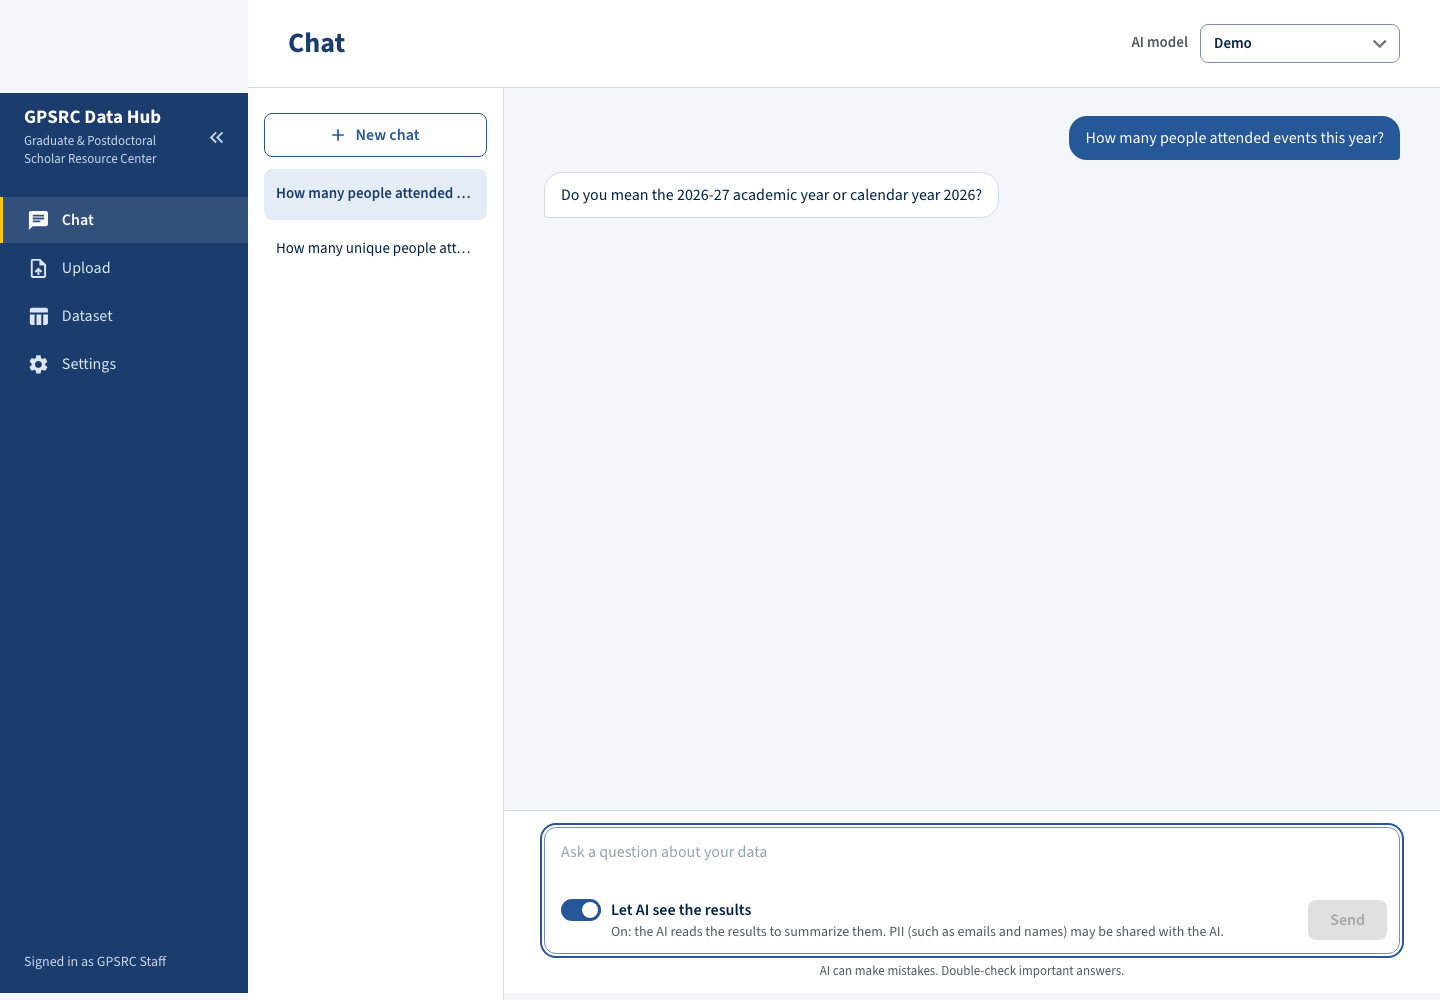
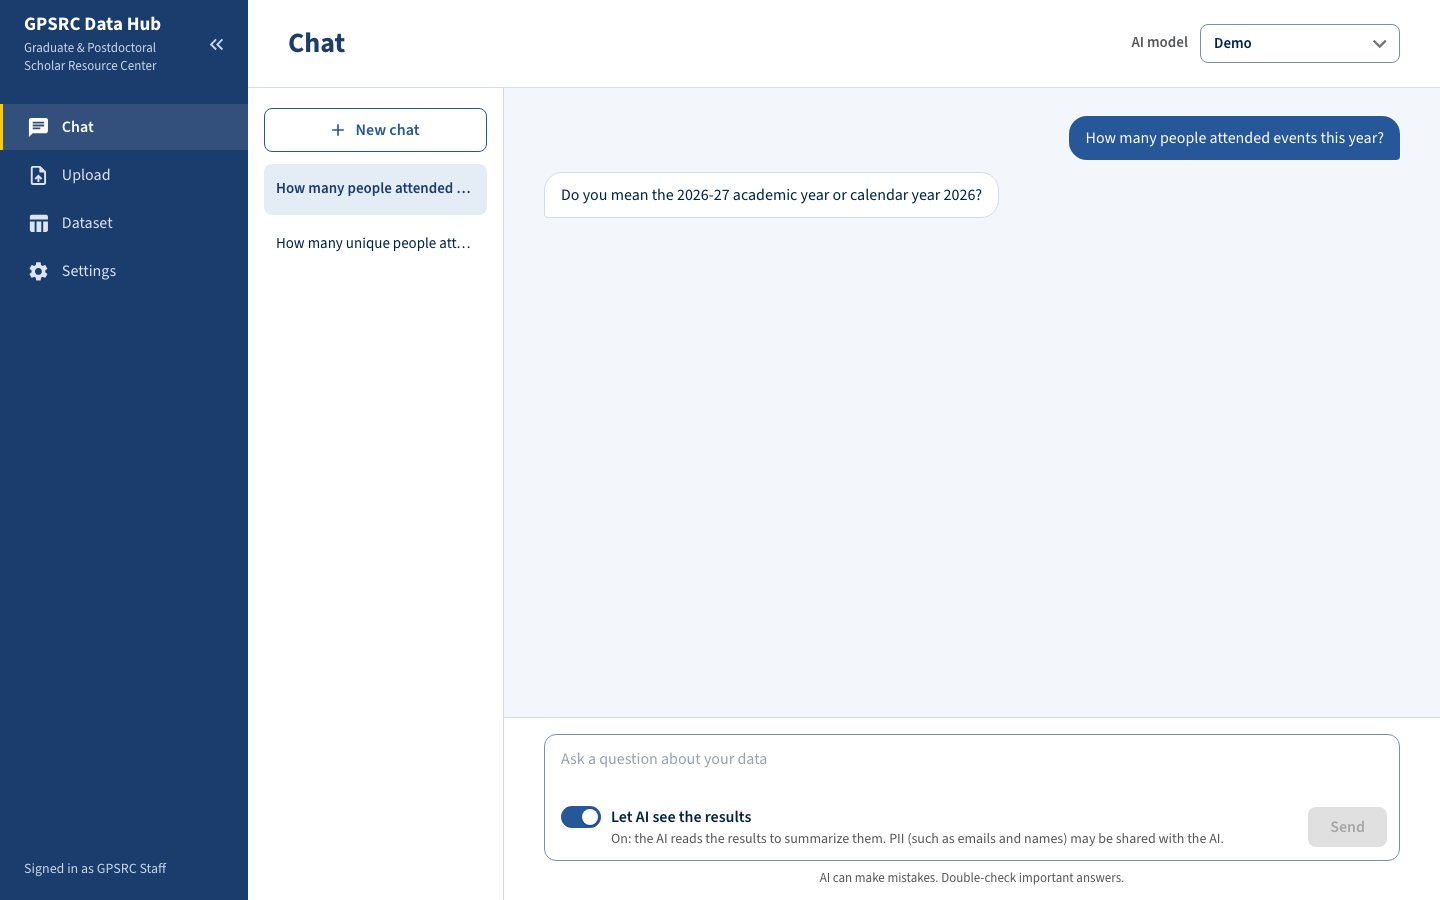
docs: re-shoot the screenshots as window-sized captures

diff --git a/project/frontend/e2e/screenshots.spec.ts b/project/frontend/e2e/screenshots.spec.ts
@@ -1,7 +1,7 @@
 import path from "node:path";
 import { expect, test, type Page } from "@playwright/test";
 
-// Full-page PNGs for the midterm report, from synthetic sample data and the "Demo" profile.
+// Window-sized PNGs of the whole page, for the midterm report, from synthetic sample data and the "Demo" profile.
 
 const BAGEL_OCTOBER = path.resolve(
   import.meta.dirname,
@@ -11,8 +11,17 @@ const SCREENSHOTS = path.resolve(import.meta.dirname, "../../docs/screenshots");
 
 test.use({ viewport: { width: 1440, height: 900 } });
 
-async function shoot(page: Page, name: string) {
-  await page.screenshot({ path: path.join(SCREENSHOTS, name), fullPage: true, animations: "disabled" });
+async function shoot(page: Page, name: string, minHeight = 900) {
+  // A window-sized capture of the whole page: grow the window to the page height so nothing scrolls,
+  // because a full-page capture draws the sticky nav and composer at the scroll position.
+  await page.evaluate("window.scrollTo(0, 0)");
+  const height = await page.evaluate<number>("document.documentElement.scrollHeight");
+  await page.setViewportSize({ width: 1440, height: Math.max(minHeight, height) });
+  await page.evaluate("new Promise((resolve) => requestAnimationFrame(() => resolve(null)))");
+  const fits = await page.evaluate<boolean>("document.documentElement.scrollHeight <= window.innerHeight");
+  expect(fits).toBe(true);
+  await page.screenshot({ path: path.join(SCREENSHOTS, name), fullPage: false, animations: "disabled" });
+  await page.setViewportSize({ width: 1440, height: 900 });
 }
 
 // Asks a question from backend/app/llm/fake_script.json and waits for the scripted reply, the end
@@ -60,9 +69,14 @@ test("midterm screenshots", async ({ page }) => {
       1,
     );
     await expect(page.getByRole("grid")).toContainText("38");
+    // Reopen the conversation so there is no live turn (it has a min-height and leaves the page scrolled).
+    await page.reload();
+    await page.getByRole("button", { name: "Show results" }).click();
+    await expect(page.getByRole("grid")).toContainText("38");
     await page.getByRole("button", { name: "Show the SQL query" }).click();
     await expect(page.getByText(/SELECT COUNT\(DISTINCT person_key\)/)).toBeVisible();
-    await shoot(page, "03-chat-answer.png");
+    // The thread scrolls inside the chat page, so the window itself must be tall enough for the whole card.
+    await shoot(page, "03-chat-answer.png", 1100);
   });
 
   await test.step("clarifying question", async () => {
@@ -73,6 +87,8 @@ test("midterm screenshots", async ({ page }) => {
       "Do you mean the 2026-27 academic year or calendar year 2026?",
       2,
     );
+    await page.reload();
+    await expect(page.getByText("Do you mean the 2026-27 academic year or calendar year 2026?")).toBeVisible();
     await shoot(page, "04-clarification.png");
   });
 
